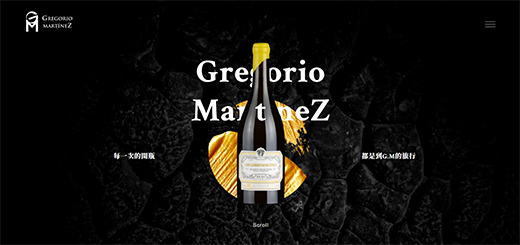
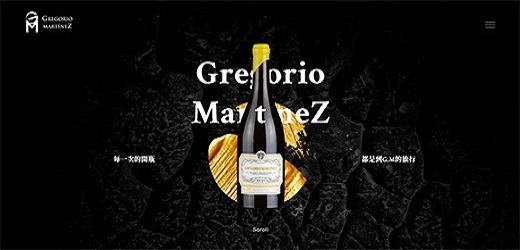
img change

diff --git a/index.html b/index.html
@@ -26,24 +26,26 @@
     <body>
         <!-- BANNER -->
         <section class="banner color-light area-margin">
-            <div class="container">
-                <nav>
-                    <ul class="navbar">
-                        <li><a href="#about-position">About me</a></li>
-                        <li><a href="#skill-position">Skill</a></li>
-                        <li><a href="#works-position">My works</a></li>
-                        <li><a href="#contact-position">Contact</a></li>
-                    </ul>
-                </nav>
-                <h1>Redbean's<br /><span>紅豆的個人簡歷</span></h1>
-                <a
-                    class="github"
-                    href="https://github.com/redbeanhong?tab=repositories"
-                    target="_blank" 
-                >
-                    <img src="./img/GitHub-Mark.png" alt="" />
-                    <p>我的github</p>
-                </a>
+            <div class="mask">
+                <div class="container">
+                    <nav>
+                        <ul class="navbar">
+                            <li><a href="#about-position">About me</a></li>
+                            <li><a href="#skill-position">Skill</a></li>
+                            <li><a href="#works-position">My works</a></li>
+                            <li><a href="#contact-position">Contact</a></li>
+                        </ul>
+                    </nav>
+                    <h1>Redbean's<br /><span>紅豆的個人簡歷</span></h1>
+                    <a
+                        class="github"
+                        href="https://github.com/redbeanhong?tab=repositories"
+                        target="_blank"
+                    >
+                        <img src="./img/GitHub-Mark.png" alt="" />
+                        <p>我的github</p>
+                    </a>
+                </div>
             </div>
         </section>
         <!-- END OF BANNER -->
@@ -213,6 +215,7 @@
                                 <li>SCSS</li>
                                 <li>webpack</li>
                             </ul>
+                            <a href="https://redbeanhong.github.io/fs.weeding.github.io/" target="_blank" class="card-github"></a>
                         </div>
                         <!-- END OF CARD-CONTENT -->
                         <div class="card-img">
@@ -246,6 +249,7 @@
                                 <li>SCSS</li>
                                 <li>Parallax</li>
                             </ul>
+                            <a href="https://redbeanhong.github.io/fs.weeding.github.io/" target="_blank" class="card-github"></a>
                         </div>
                         <!-- END OF CARD-CONTENT -->
                         <div class="card-img">
@@ -280,6 +284,7 @@
                                 <li>jQuery</li>
                                 <li>lax.js</li>
                             </ul>
+                            <a href="https://redbeanhong.github.io/Gregorio-Mart-nez/" target="_blank" class="card-github"></a>
                         </div>
                         <!-- END OF CARD-CONTENT -->
                         <div class="card-img">
@@ -301,9 +306,7 @@
                     <li class="card">
                         <!-- CARD-CONTENT -->
                         <div class="card-content">
-                            <ol>
-                                <li>以Bootstrap製作的RWD的一頁式婚紗網頁。</li>
-                            </ol>
+                            <p>以Bootstrap製作的RWD的一頁式婚紗網頁。</p>
                             <h6>
                                 Tools<span><i class="fas fa-cog"></i></span>
                             </h6>
@@ -312,6 +315,7 @@
                                 <li>SCSS</li>
                                 <li>Bootstrap</li>
                             </ul>
+                            <a href="https://redbeanhong.github.io/wedding.github.io/" target="_blank" class="card-github"></a>
                         </div>
                         <!-- END OF CARD-CONTENT -->
                         <div class="card-img">
@@ -344,9 +348,7 @@
             <div class="container">
                 <h2>Contact</h2>
                 <div class="contact-content">
-                    <div class="contact-img">
-                        
-                    </div>
+                    <div class="contact-img"></div>
                     <div class="contact-txt">
                         <p>
                             與我聯絡：<a href="myself6331@gmail.com"

diff --git a/css/all.scss b/css/all.scss
@@ -8,11 +8,14 @@
     left: 0;
 }
 // ---------BANNER & NAV---------
+.mask{
+    background-color: rgba(4, 14, 22, 0.83);
+    padding: 100px 0;
+}
 .banner {
-    background-image: url("../img/banner_photo.jpg");
+    background-image: url("../img/banner.jpg");
     background-repeat: no-repeat;
     background-size: cover;
-    padding: 100px 0;
 }
 
 .navbar {
@@ -161,8 +164,16 @@
             background-color: $color-important;
             margin-right: 10px;
             padding: 10px;
-            float: left;
         }
+
+        .card-github{
+            margin-top: 10px;
+            width: 121px;
+            height: 50px;
+            background-image: url('../img/GitHub-Logo.png');
+            background-size: cover;
+        }
+
     }
 
     .card-img {
@@ -204,6 +215,11 @@
 
     &:hover .card-content > * {
         display: block;
+    }
+
+    &:hover .card-content ul {
+        display: flex;
+        flex-wrap: wrap;
     }
 
     &:hover .heading {

diff --git a/css/all.css b/css/all.css
@@ -131,11 +131,15 @@ h4 {
   left: 0;
 }
 
+.mask {
+  background-color: rgba(4, 14, 22, 0.83);
+  padding: 100px 0;
+}
+
 .banner {
-  background-image: url("../img/banner_photo.jpg");
+  background-image: url("../img/banner.jpg");
   background-repeat: no-repeat;
   background-size: cover;
-  padding: 100px 0;
 }
 
 .navbar {
@@ -312,7 +316,14 @@ h4 {
   background-color: #dcb58c;
   margin-right: 10px;
   padding: 10px;
-  float: left;
+}
+
+.card .card-content .card-github {
+  margin-top: 10px;
+  width: 121px;
+  height: 50px;
+  background-image: url("../img/GitHub-Logo.png");
+  background-size: cover;
 }
 
 .card .card-img img {
@@ -354,6 +365,14 @@ h4 {
 
 .card:hover .card-content > * {
   display: block;
+}
+
+.card:hover .card-content ul {
+  display: -webkit-box;
+  display: -ms-flexbox;
+  display: flex;
+  -ms-flex-wrap: wrap;
+      flex-wrap: wrap;
 }
 
 .card:hover .heading {
